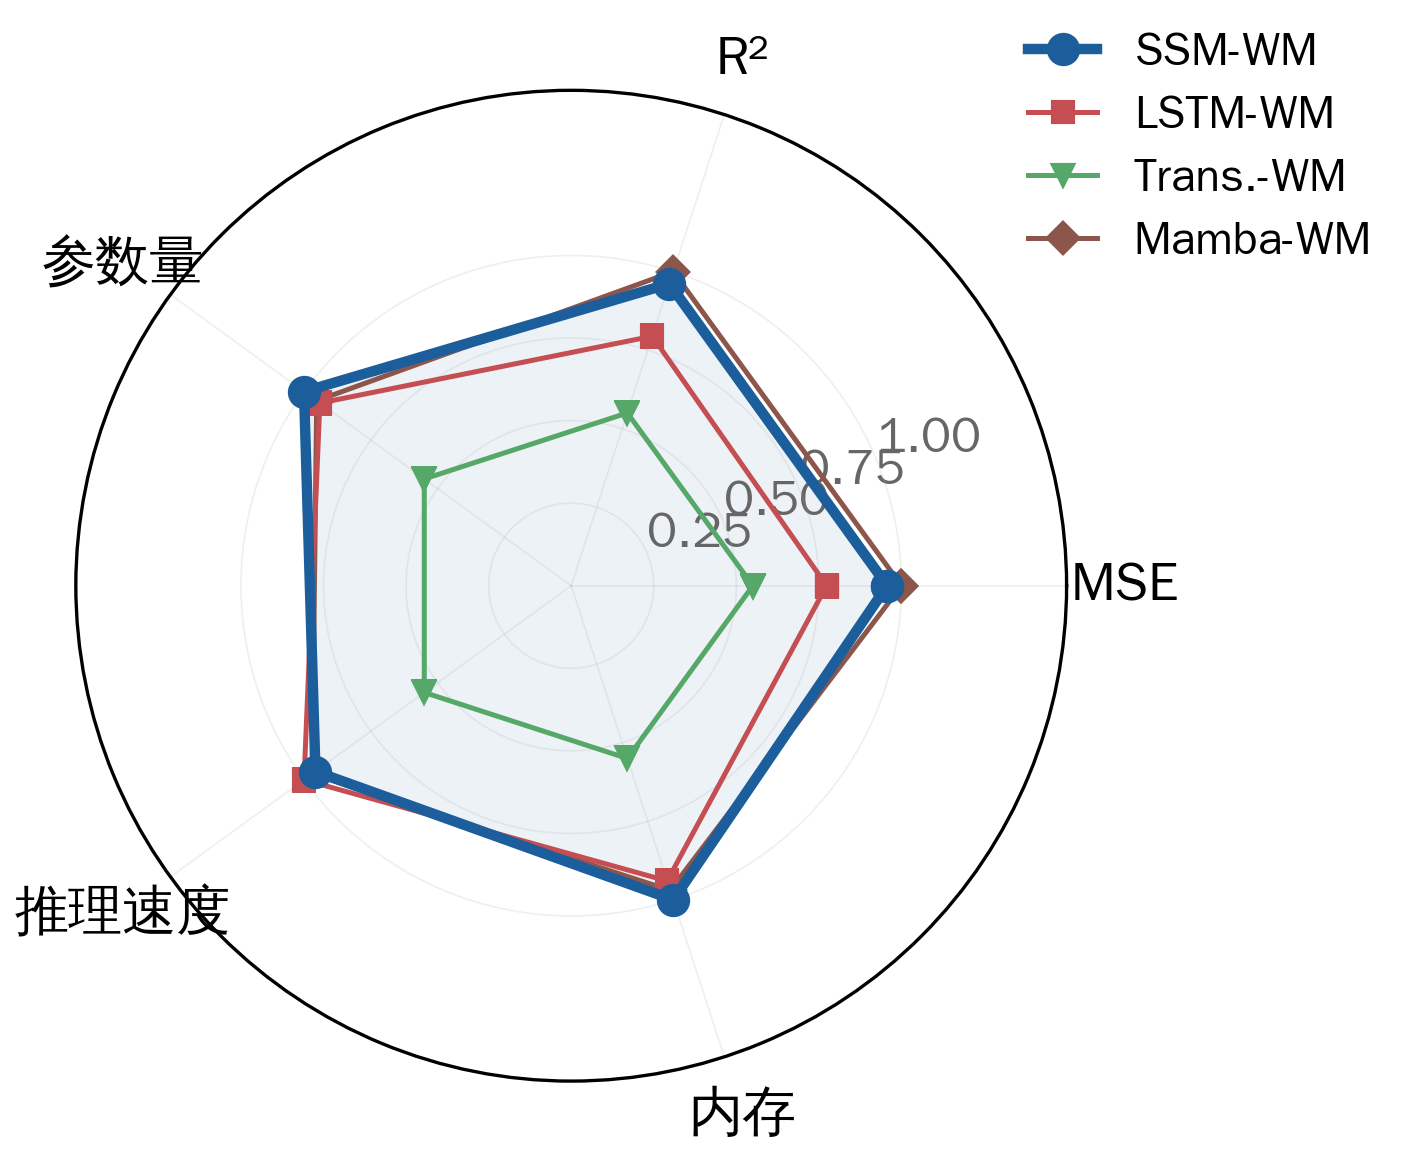
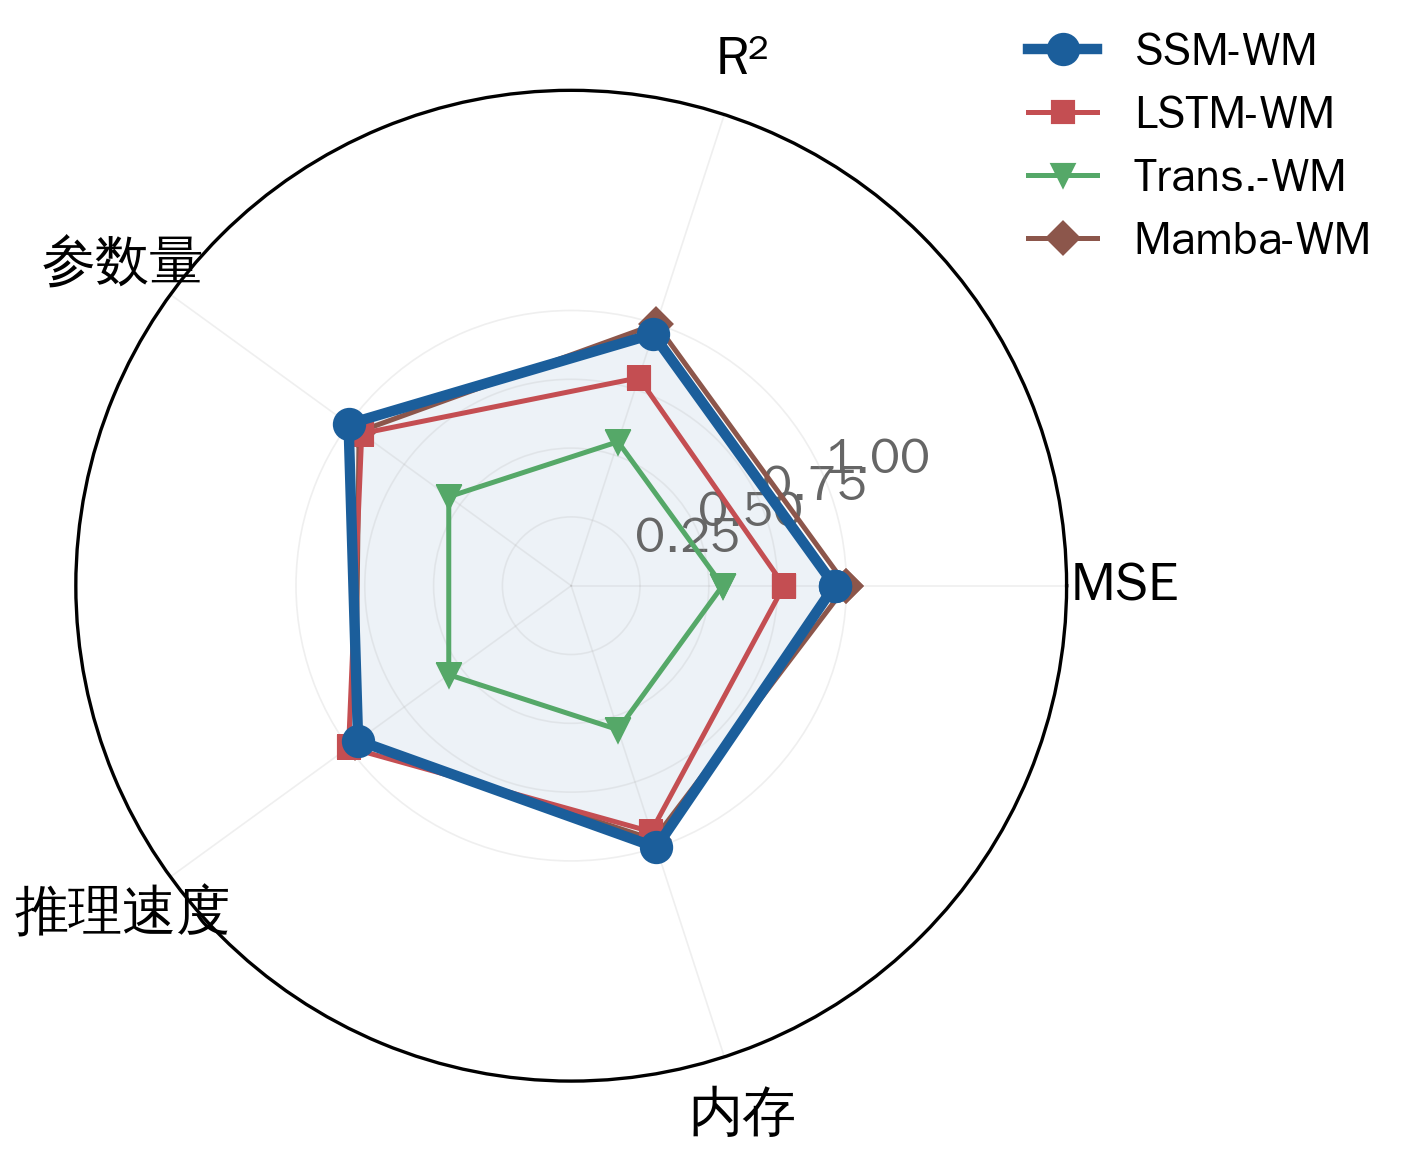
fix: 雷达图ylim=1.8进一步扩大

Changed region(s): [[0.1836, 0.2186, 0.7039, 0.8118]]

diff --git a/scripts/generate_figures_nature.py b/scripts/generate_figures_nature.py
@@ -310,7 +310,7 @@ def fig6():
 
     ax.set_xticks(angles[:-1])
     ax.set_xticklabels(categories, fontsize=13, fontweight='bold')
-    ax.set_ylim(0, 1.5)
+    ax.set_ylim(0, 1.8)
     ax.set_yticks([0.25, 0.5, 0.75, 1.0])
     ax.set_yticklabels(['0.25', '0.50', '0.75', '1.00'], fontsize=12, color='#666')
     ax.grid(True, alpha=0.2, linewidth=0.4)